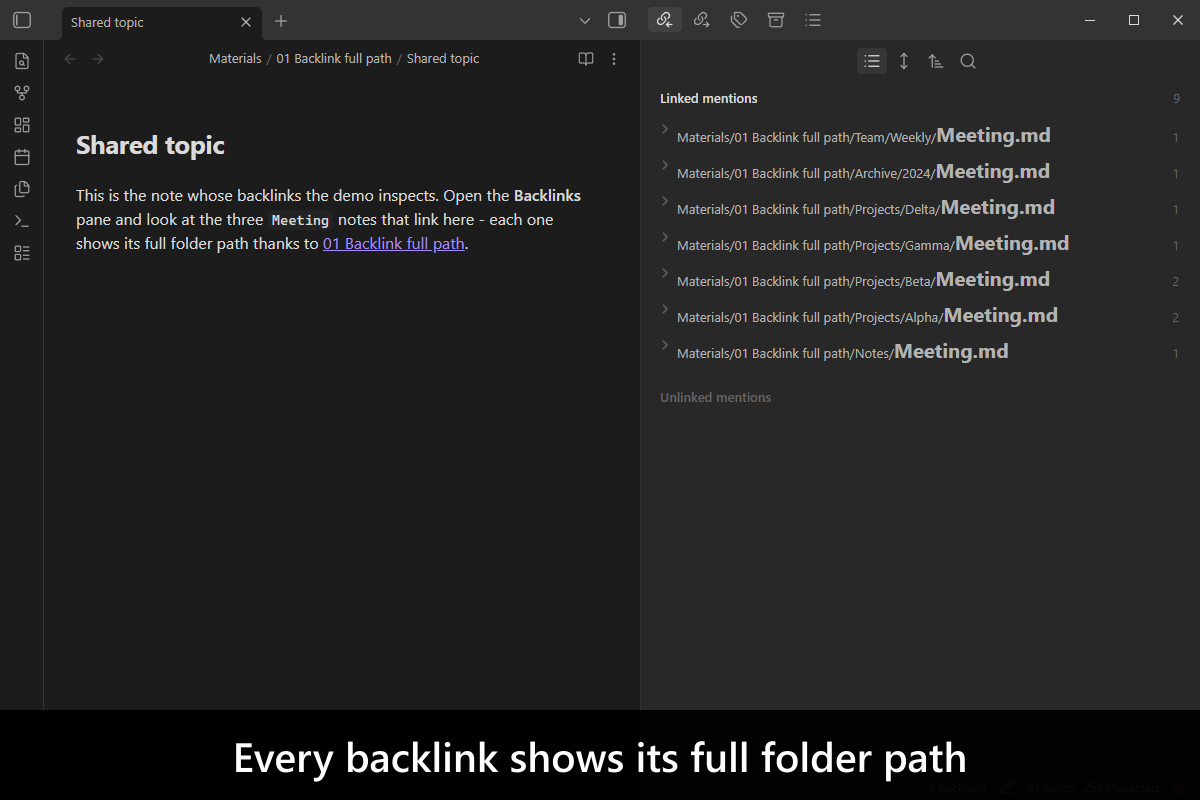
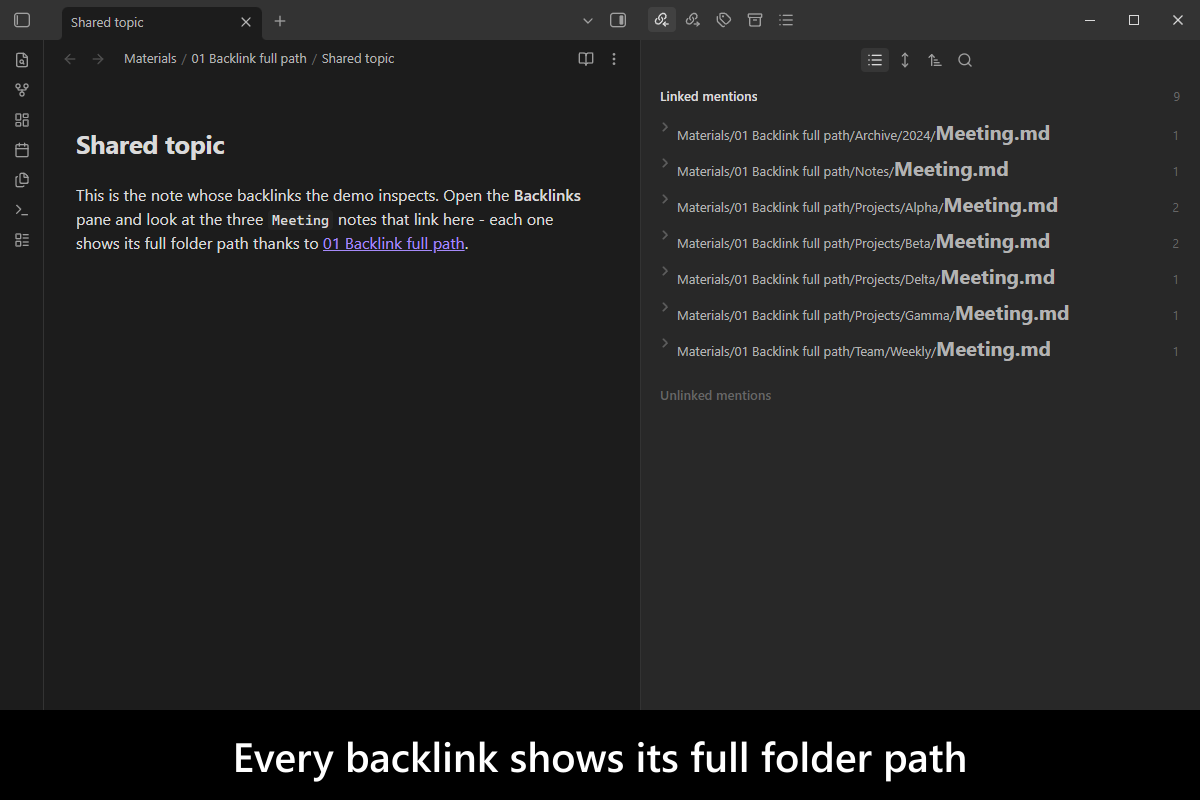
test(screenshots): make the desktop Backlinks row order deterministic
Every fixture note is named Meeting.md, and the Backlinks pane's default
sort compares basenames only. The tied rows kept the order in which the
backlink search's async reads completed, so the frames changed from run
to run. The suite now stamps each fixture with a fixed, distinct mtime in
path order and sorts the pane old-to-new.

Re-shoot the desktop frames under it. The diff also carries the Obsidian
1.14.2 chrome and the opaque caption band.

diff --git a/src/screenshots.desktop-capture.integration.test.ts b/src/screenshots.desktop-capture.integration.test.ts
@@ -84,6 +84,7 @@ import {
 interface BacklinkPaneComponent {
   setCollapseAll: (this: void, isCollapsed: boolean) => void;
   setExtraContext: (this: void, hasExtraContext: boolean) => void;
+  setSortOrder: (this: void, sortOrder: string) => void;
 }
 
 /**
@@ -242,6 +243,43 @@ beforeAll(async () => {
       await sleep(SETTLE_DELAY_IN_MILLISECONDS);
     },
     input: { subjectNotePath: SUBJECT_NOTE_PATH },
+    vaultPath: vaultPath()
+  });
+
+  // Every row is a `Meeting.md`, and the pane's default sort compares basenames only, so it ties on all of
+  // them. A tie keeps insertion order, and the backlink search inserts in the order its async file reads
+  // complete, which differs from run to run. Give each fixture a distinct, fixed mtime in path order and
+  // sort old-to-new, so the rows read in path order every run.
+  await evalInObsidian({
+    async callback({ app, lib: { waitUntil }, subjectRootPath }) {
+      const SETTLE_TIMEOUT_IN_MILLISECONDS = 12_000;
+      const SETTLE_DELAY_IN_MILLISECONDS = 1000;
+      // 2024-01-01T00:00:00Z, one minute apart: fixed values, so nothing about the run leaks into the order.
+      const BASE_MTIME = 1_704_067_200_000;
+      const MTIME_STEP_IN_MILLISECONDS = 60_000;
+
+      const fixtureFiles = app.vault.getMarkdownFiles()
+        .filter((fixtureFile) => fixtureFile.path.startsWith(`${subjectRootPath}/`))
+        .sort((a, b) => a.path.localeCompare(b.path));
+      const expectedMtimes = new Map<string, number>();
+      for (const [index, fixtureFile] of fixtureFiles.entries()) {
+        const mtime = BASE_MTIME + index * MTIME_STEP_IN_MILLISECONDS;
+        expectedMtimes.set(fixtureFile.path, mtime);
+        await app.vault.modify(fixtureFile, await app.vault.read(fixtureFile), { mtime });
+      }
+
+      await waitUntil({
+        message: 'every fixture note to carry its stamped mtime',
+        predicate: () => fixtureFiles.every((fixtureFile) => fixtureFile.stat.mtime === expectedMtimes.get(fixtureFile.path)),
+        timeoutInMilliseconds: SETTLE_TIMEOUT_IN_MILLISECONDS
+      });
+
+      const backlinkView: unknown = app.workspace.getLeavesOfType('backlink')[0]?.view;
+      (backlinkView as BacklinkPaneView).backlink.setSortOrder('byModifiedTimeReverse');
+
+      await sleep(SETTLE_DELAY_IN_MILLISECONDS);
+    },
+    input: { subjectRootPath: SUBJECT_ROOT_PATH },
     vaultPath: vaultPath()
   });
 });
